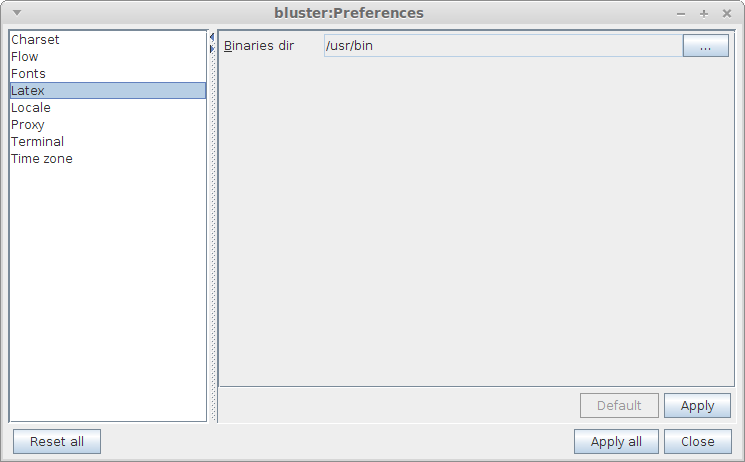
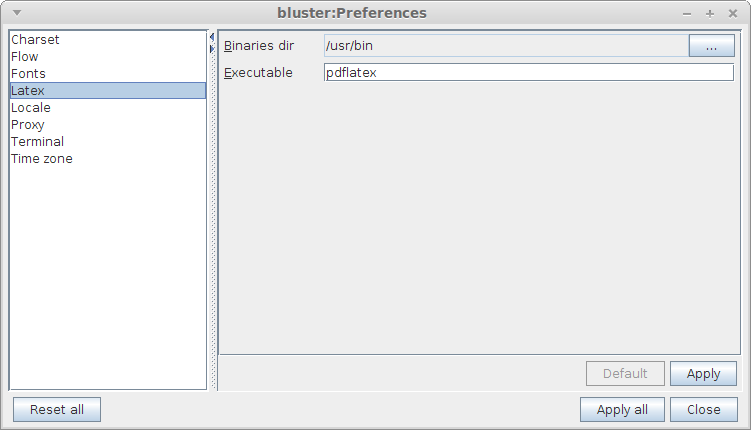
added executable to latex setup/preferences

Changed region(s): [[0.0, 0.0, 0.9879, 0.9977], [0.0, 0.907, 0.1544, 0.9977]]

diff --git a/adams-latex/src/main/java/adams/flow/standalone/LatexSetup.java b/adams-latex/src/main/java/adams/flow/standalone/LatexSetup.java
@@ -74,6 +74,11 @@ import java.io.File;
  * &nbsp;&nbsp;&nbsp;default: &#47;usr&#47;bin
  * </pre>
  * 
+ * <pre>-executable &lt;java.lang.String&gt; (property: executable)
+ * &nbsp;&nbsp;&nbsp;The executable to use (no path).
+ * &nbsp;&nbsp;&nbsp;default: pdflatex
+ * </pre>
+ * 
  <!-- options-end -->
  *
  * @author  fracpete (fracpete at waikato dot ac dot nz)
@@ -87,6 +92,9 @@ public class LatexSetup
 
   /** the path to the binaries. */
   protected PlaceholderDirectory m_BinariesDir;
+
+  /** the executable. */
+  protected String m_Executable;
 
   /**
    * Returns a string describing the object.
@@ -106,8 +114,12 @@ public class LatexSetup
     super.defineOptions();
 
     m_OptionManager.add(
-	    "binaries-dir", "binariesDir",
-	    LatexHelper.getBinariesDir());
+      "binaries-dir", "binariesDir",
+      LatexHelper.getBinariesDir());
+
+    m_OptionManager.add(
+      "executable", "executable",
+      LatexHelper.getExecutable());
   }
 
   /**
@@ -140,13 +152,51 @@ public class LatexSetup
   }
 
   /**
-   * Prepends the binaries path to the executable.
+   * Sets the executable to use (no path).
+   *
+   * @param value	the executable
+   */
+  public void setExecutable(String value) {
+    m_Executable = value;
+    reset();
+  }
+
+  /**
+   * Returns the executable to use (no path).
+   *
+   * @return		the executable
+   */
+  public String getExecutable() {
+    return m_Executable;
+  }
+
+  /**
+   * Returns the tip text for this property.
+   *
+   * @return 		tip text for this property suitable for
+   * 			displaying in the GUI or for listing the options.
+   */
+  public String executableTipText() {
+    return "The executable to use (no path).";
+  }
+
+  /**
+   * Returns the full path of the executable.
    *
    * @param exec	the executable (no path)
    * @return		the full path
    */
-  public String getExecutable(String exec) {
+  public String executablePath(String exec) {
     return m_BinariesDir.getAbsolutePath() + File.separator + exec;
+  }
+
+  /**
+   * Returns the full path of the executable.
+   *
+   * @return		the full path
+   */
+  public String executablePath() {
+    return executablePath(getExecutable());
   }
 
   /**
@@ -156,6 +206,9 @@ public class LatexSetup
    */
   @Override
   protected String doExecute() {
+    if (!getBinariesDir().exists())
+      return "LaTeX directory for binaries does not exist: " + m_BinariesDir;
+
     return null;
   }
 }

diff --git a/adams-latex/src/main/java/adams/gui/application/LatexSetupPanel.java b/adams-latex/src/main/java/adams/gui/application/LatexSetupPanel.java
@@ -27,6 +27,7 @@ import adams.env.LatexDefinition;
 import adams.gui.chooser.DirectoryChooserPanel;
 import adams.gui.core.ParameterPanel;
 
+import javax.swing.JTextField;
 import java.awt.BorderLayout;
 
 /**
@@ -44,8 +45,11 @@ public class LatexSetupPanel
   /** the parameters. */
   protected ParameterPanel m_PanelParameters;
 
-  /** the consumer key. */
+  /** the directory with the binaries. */
   protected DirectoryChooserPanel m_ChooserLatexBinaries;
+
+  /** the directory with the binaries. */
+  protected JTextField m_TextExecutable;
 
   /**
    * Initializes the members.
@@ -62,6 +66,10 @@ public class LatexSetupPanel
     m_ChooserLatexBinaries = new DirectoryChooserPanel();
     m_ChooserLatexBinaries.setCurrent(LatexHelper.getBinariesDir());
     m_PanelParameters.addParameter("_Binaries dir", m_ChooserLatexBinaries);
+
+    m_TextExecutable = new JTextField(10);
+    m_TextExecutable.setText(LatexHelper.getExecutable());
+    m_PanelParameters.addParameter("_Executable", m_TextExecutable);
   }
 
   /**
@@ -75,6 +83,7 @@ public class LatexSetupPanel
     result = new Properties();
 
     result.setProperty(LatexHelper.BINARIES_DIR, m_ChooserLatexBinaries.getCurrent().getAbsolutePath());
+    result.setProperty(LatexHelper.EXECUTABLE, m_TextExecutable.getText());
 
     return result;
   }

diff --git a/adams-latex/src/main/java/adams/doc/latex/LatexHelper.java b/adams-latex/src/main/java/adams/doc/latex/LatexHelper.java
@@ -40,6 +40,9 @@ public class LatexHelper {
   /** the binaries dir. */
   public final static String BINARIES_DIR = "BinariesDir";
 
+  /** the executable. */
+  public final static String EXECUTABLE = "Executable";
+
   /** the properties. */
   protected static Properties m_Properties;
 
@@ -102,4 +105,19 @@ public class LatexHelper {
     return new PlaceholderDirectory(getProperties().getPath(BINARIES_DIR, defPath));
   }
 
+  /**
+   * Returns the binaries dir.
+   *
+   * @return		the binaries dir
+   */
+  public static String getExecutable() {
+    String 	defExec;
+
+    if (OS.isWindows())
+      defExec = "pdflatex.exe";
+    else
+      defExec = "pdflatex";
+
+    return getProperties().getProperty(EXECUTABLE, defExec);
+  }
 }
